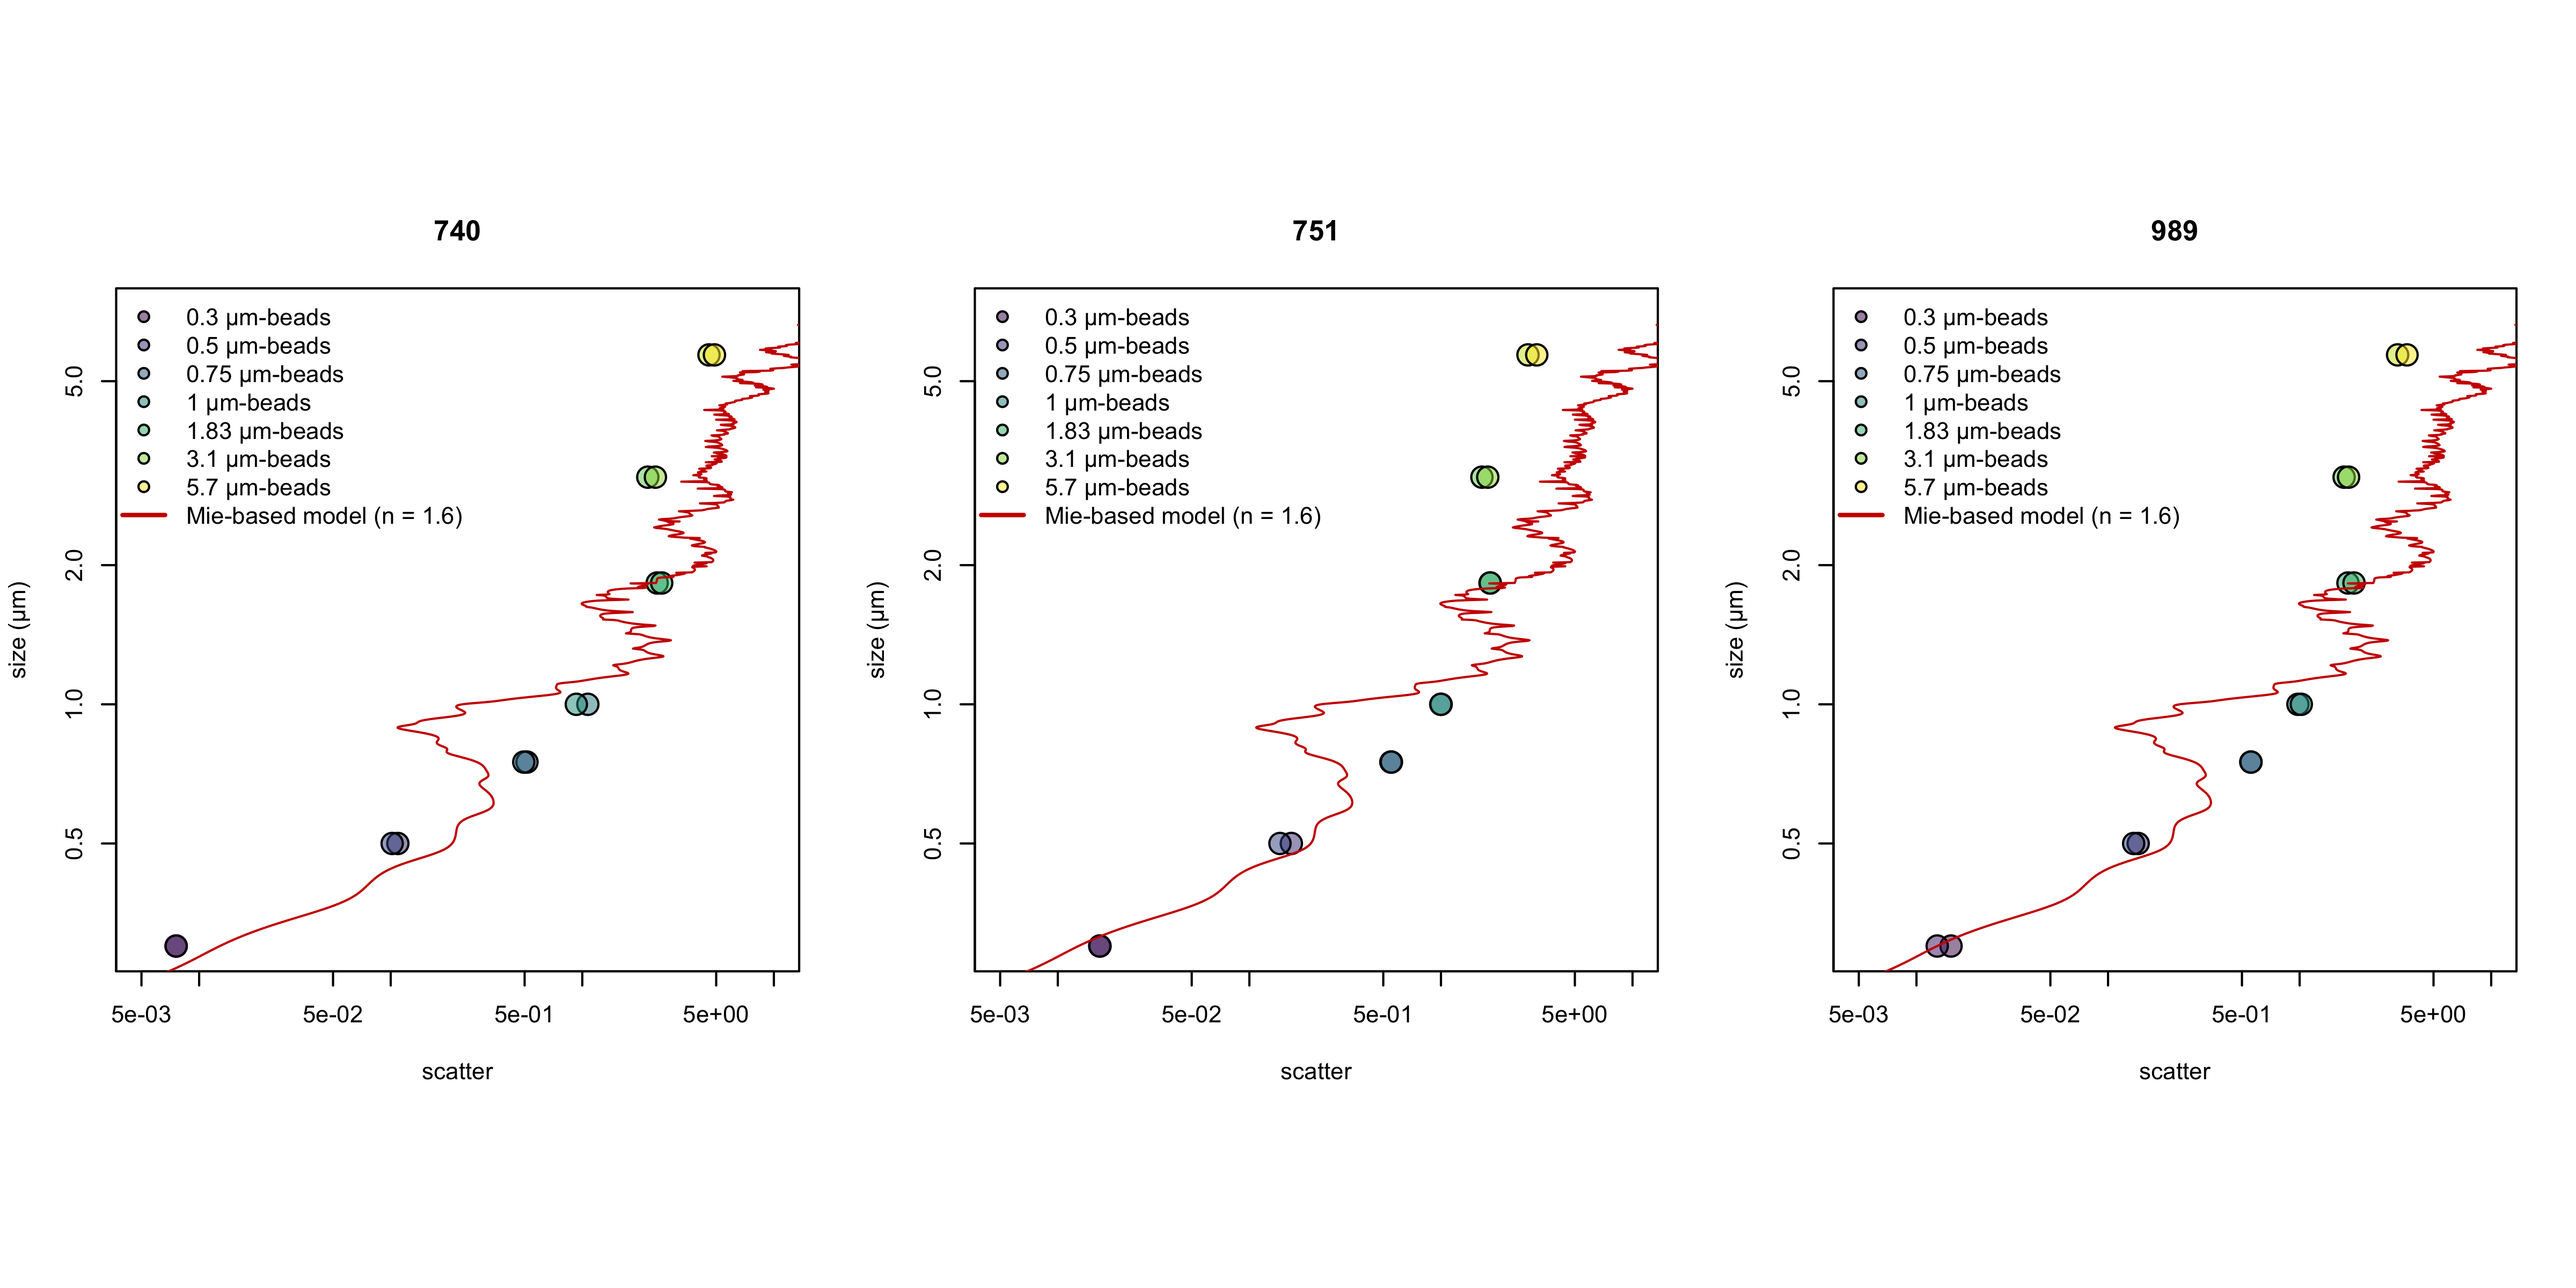
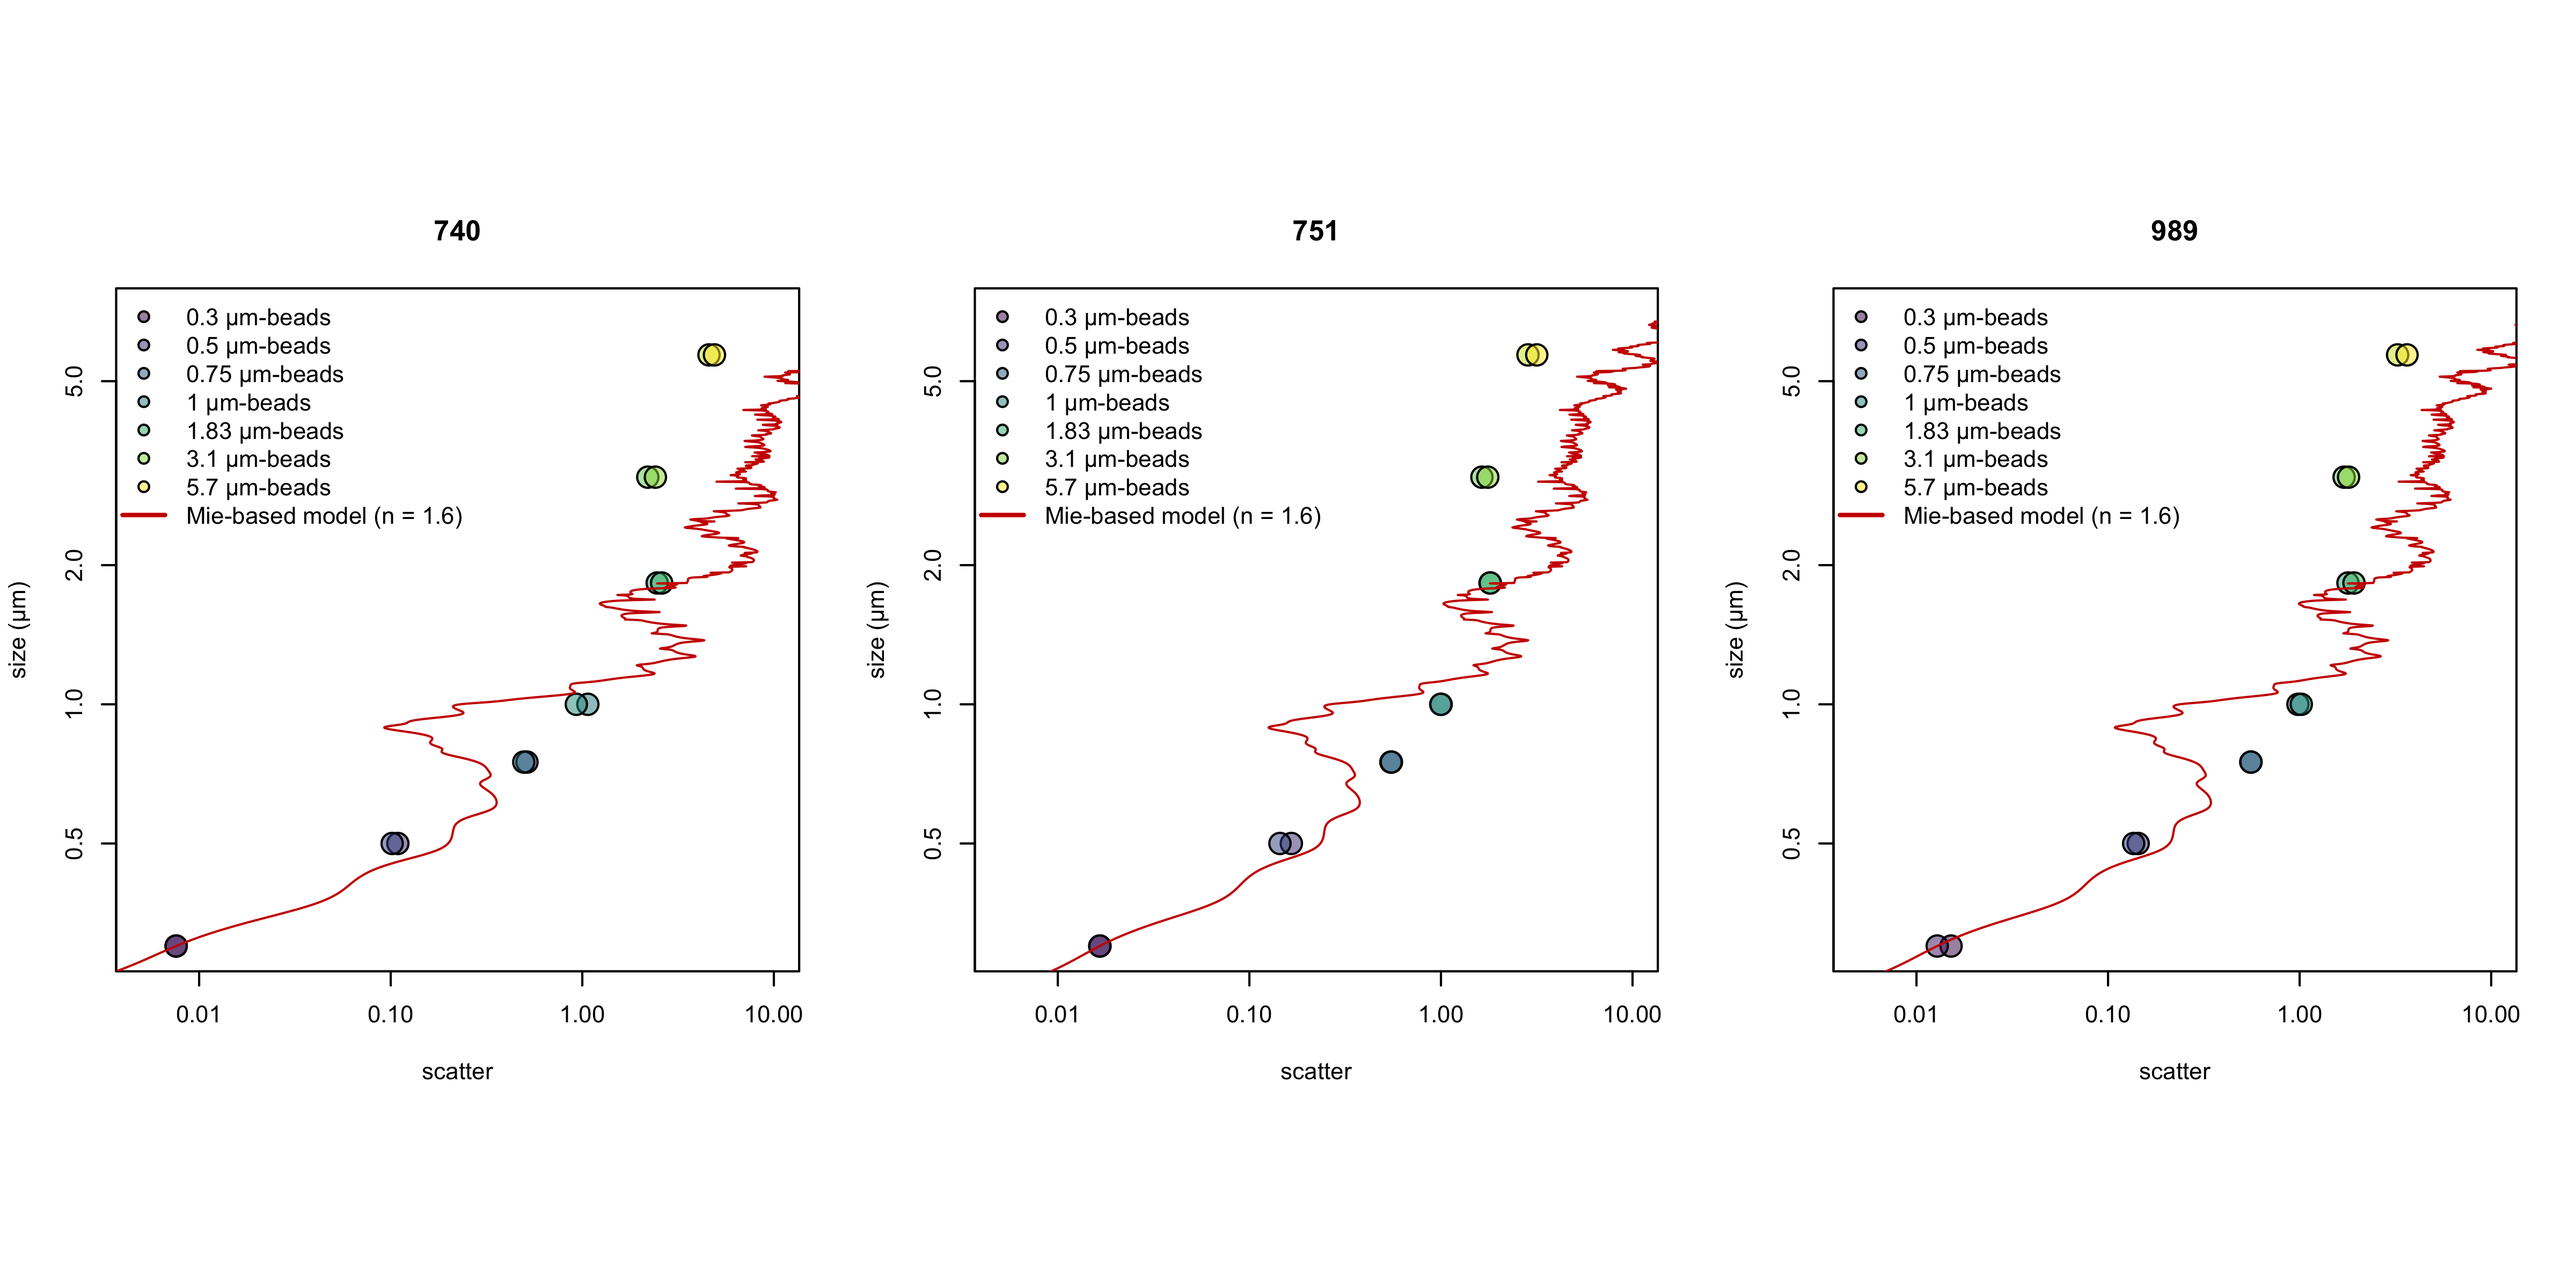
added raw data of Mie theory

diff --git a/README.md b/README.md
@@ -1,8 +1,12 @@
 # Calibration light scattering - cell diameter
-The goal of the experiment was to calibrate light scattering measured by our SeaFlow instrument into cell diameter measured by Coulter Coulter using phytoplankton cultures of various shapes and sizes.
-We used cultures grown under continuous light and monitored the cultures daily to ensure cells were growing exponentially at the start of the experiments.
-The light scattering property of each cell (alive, not fixed), normalized by 1 micron beads, was measured by SeaFlow. The same sample was analyzed by Coulter Counter.
+The goal of this project is to use an optimized Mie theory to infer particle cell size from forward scatter measurements. In order to use Mie theory, an optimization method was developed to minimize the difference between forward scattering measured by SeaFlow and estimated using Mie theory. The optimization step was necessary because the optical geometry of the flow cytometer is not precisely known. An optimization procedure was conducted to scale the dimensionless values of forward scatter, in which the differences between the Mie-modeled and measurement-derived forward scatter were minimized. We used SeaFlow measurements of calibration particles of known refractive index and size. These particles includes 7 sizes of polystyrene beads (0.3, 0.5, 0.75, 1, 1.83, 3.1 and 5.7 µm in diameter; n = 1.6003). Using this optimization, a lookup table of theory-based solutions for particle forward scattering was created over a range of particle diameter detectable by the SeaFlow (0.3 - 10 µm) and index of refraction applicable to marine phytoplankton (n=1.031 +/- 0.017).
 
-![alt text](740-Size-scatter.png "SeaFlow calibration of forward scatter normalized by 1 micron beads compared to Mie theory")
+![alt text](Mie-beads-scatter.png "SeaFlow forward scatter measurements compared to optimized Mie theory")
+
+To evaluate the applicability of these solutions, we compared Mie-predicted cell diameter to results from analysis of numerous phytoplankton cultures.The light scattering property of each cell (alive, not fixed), normalized by 1 micron beads, was measured by SeaFlow and by Coulter Counter.
+
+![alt text](740-Size-scatter.png "SeaFlow forward scatter measurements compared to optimized Mie theory")
+
+
 
 ***François Ribalet, Megan Schatz and Jarred Swalwell contributed to this project.***
